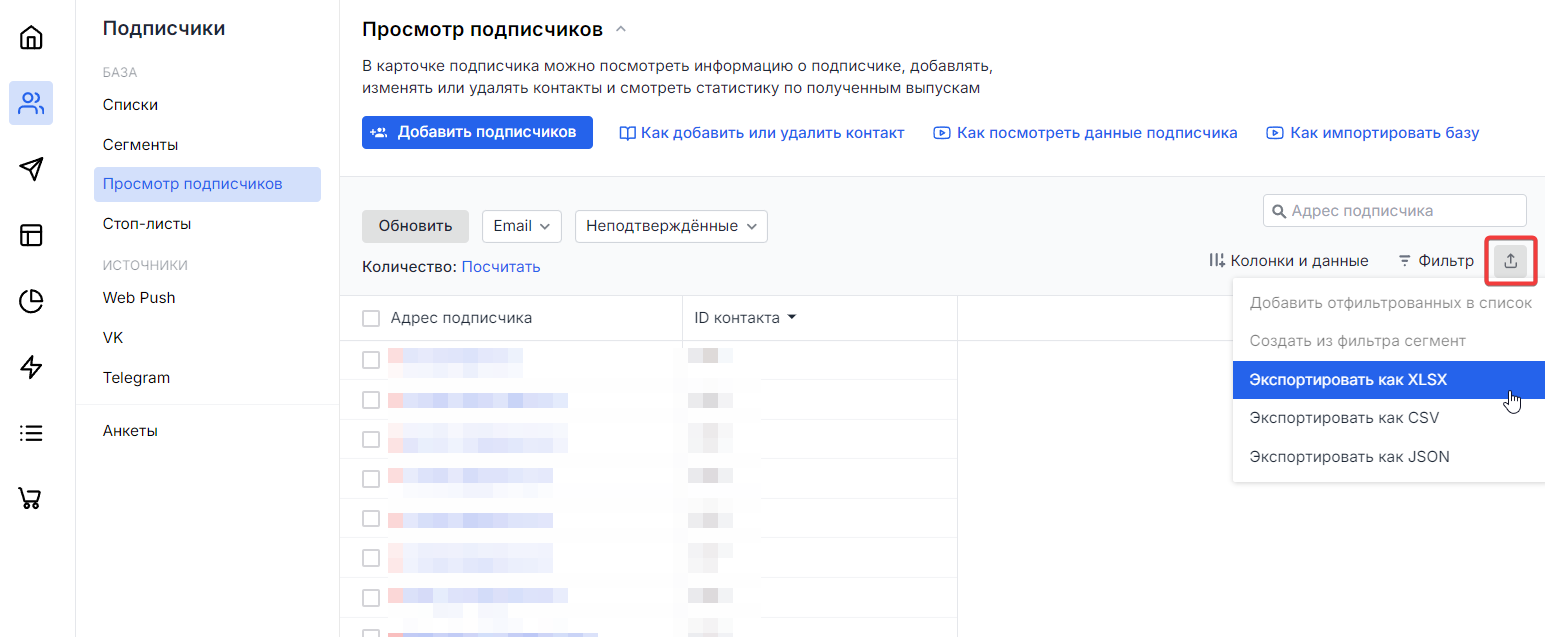
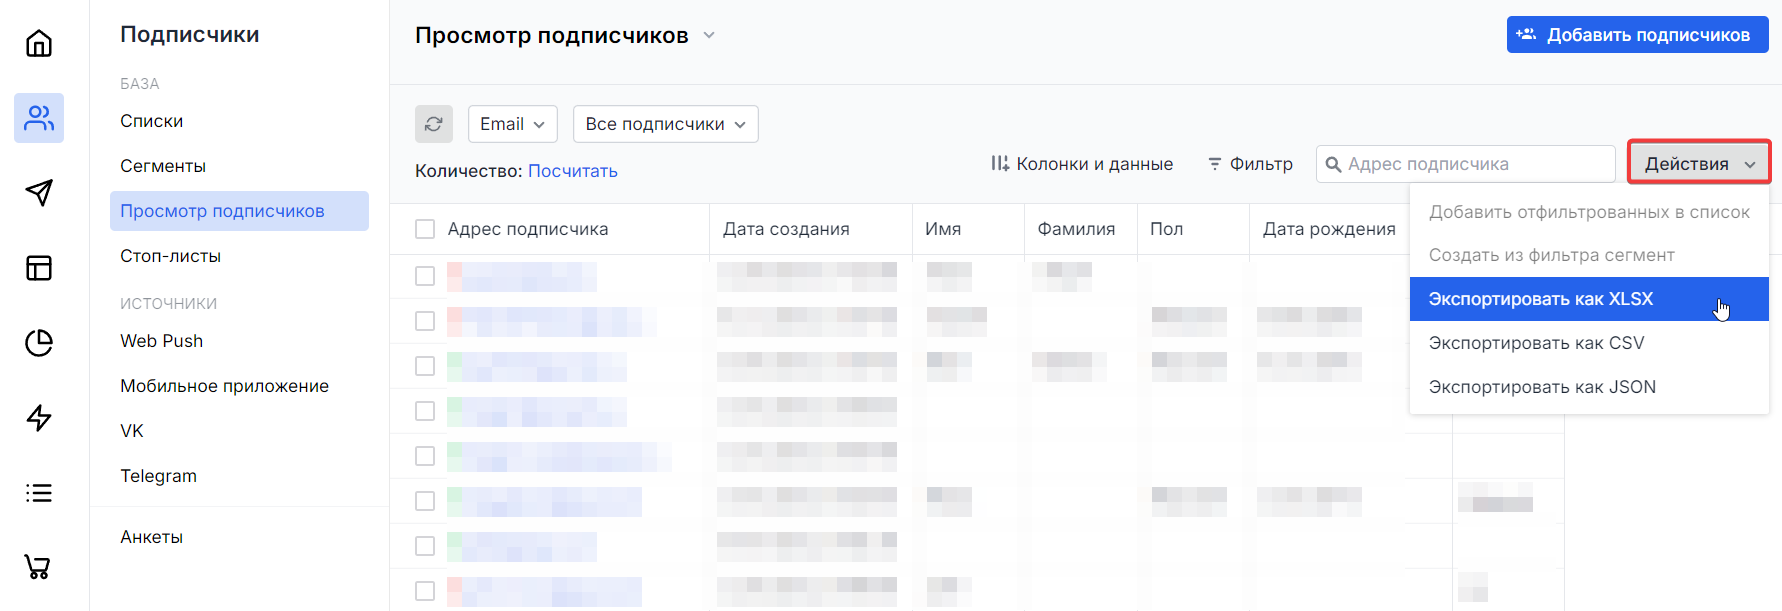
fix(sendsay-docs) fix comment

diff --git a/docs/subscribers/contacts/how-to-display-data.md b/docs/subscribers/contacts/how-to-display-data.md
@@ -19,6 +19,8 @@ sidebar_label: 'Как настроить отображение'
 
 [Какие бывают статусы у контактов](https://docs.sendsay.ru/subscribers/contacts/contact-status/)
 
+## Как настроить колонки таблицы
+
 Количество и содержание колонок в таблице можно редактировать, чтобы выводить ту информацию, которая вам нужна. Для перехода к настройкам таблицы нажмите «Колонки и данные»:
 
 ![How to set up a table](/img/subscribers/contacts\how-to-display-data/how-to-set-up-a-table.gif)
@@ -69,7 +71,7 @@ sidebar_label: 'Как настроить отображение'
 
 4. Нажмите «Применить» — в таблице отобразятся подписчики, подходящие под заданные условия.
 
-Подписчиков, которые попали под условия фильтра, можно добавить в [список](https://docs.sendsay.ru/subscribers/lists-and-segments/what-is-list/) или создать из них [сегмент](https://docs.sendsay.ru/subscribers/lists-and-segments/what-is-segment/) контактов. Чтобы сделать это, откройте меню экспорта и выберите соответствующее действие:
+Подписчиков, которые попали под условия фильтра, можно добавить в [список](https://docs.sendsay.ru/subscribers/lists-and-segments/what-is-list/) или создать из них [сегмент](https://docs.sendsay.ru/subscribers/lists-and-segments/what-is-segment/) контактов. Чтобы сделать это, откройте меню «Действия» и выберите соответствующее действие:
 
 ![How to make a list](/img/subscribers/contacts\how-to-display-data/how-to-make-a-list.gif)
 

diff --git a/docs/subscribers/lists-and-segments/what-is-segment.md b/docs/subscribers/lists-and-segments/what-is-segment.md
@@ -32,7 +32,7 @@ sidebar_position: 2
 
    ![How to create a segment](/img/subscribers/lists-and-segments\what-is-segment/how-to-create-a-segment.gif) <br/>
 
-Вы также можете создать сегмент в разделе [**Подписчики → Просмотр подписчиков**](https://app.sendsay.ru/subscribers/contacts). Настройте фильтр и в меню экспорта создайте сегмент — в него попадут отфильтрованные контакты.
+Вы также можете создать сегмент в разделе [**Подписчики → Просмотр подписчиков**](https://app.sendsay.ru/subscribers/contacts). Настройте фильтр и в меню «Действия» создайте сегмент — в него попадут отфильтрованные контакты.
 
 ![How to create a segment in subscribers view](/img/subscribers/lists-and-segments\what-is-segment/how-to-create-a-segment-in-subscribers-view.png)
 
